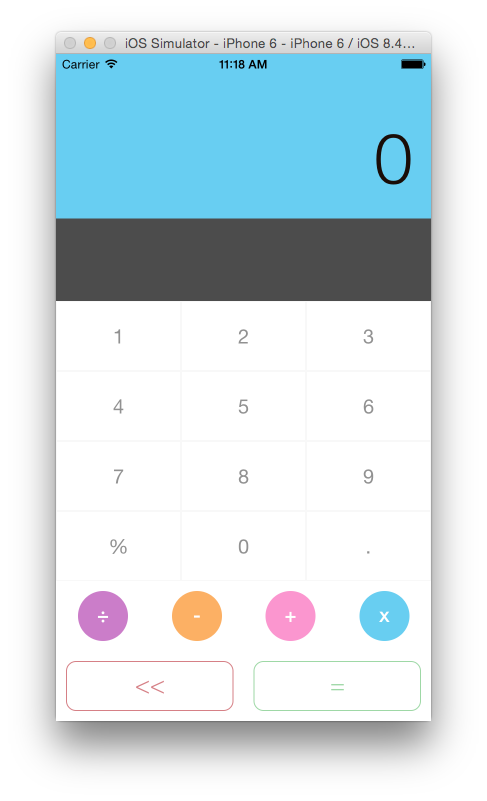
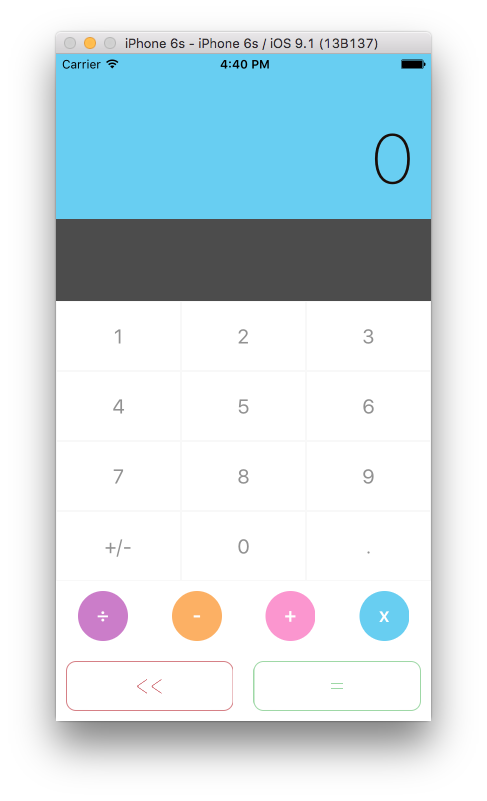
Updates screenshots in the readme

diff --git a/README.md b/README.md
@@ -1,10 +1,22 @@
 # A mobile, desktop and website App with the same code
 
-This project shows how the source code can be architectured for multiple devices. For now, the source code is able to run as:
+This project shows how the source code can be architectured to run on multiple devices. As of now, it is able to run as:
 
 - an iOS App (based on [react-native](https://facebook.github.io/react-native))
-- a Website App in any browser (based on [react](https://facebook.github.io/react))
 - a Desktop App (based on [NW](http://nwjs.io))
+- a Website App in any browser (based on [react](https://facebook.github.io/react))
+
+### Mobile App
+
+![Mobile App](images/mobile-app.png "Mobile App")
+
+### Desktop App
+
+![Desktop App](images/desktop-app.png "Desktop App")
+
+### Website App
+
+![Website App](images/website-app.png "Website App")
 
 ## Libraries/tools
 
@@ -107,8 +119,6 @@ As of now (October 14th) react-native and npm v3.X do not cooperate well togethe
 
 Congratulations! You've just successfully run the project as an iOS App.
 
-![Mobile App](images/mobile-app.png "Mobile App")
-
 ## The Website App
 
 ### Requirements for React
@@ -121,8 +131,6 @@ There isn't any addtional requirements since you already installed the deps with
 - `grunt serve-web` to preview in the browser at http://localhost:8000/index.web.html or http://localhost:8000/webpack-dev-server/index.web.html with webpack-dev-server and hot reload enabled
 
 Congratulations! You've just successfully run the project as a Website App.
-
-![Website App](images/website-app.png "Website App")
 
 ## The Desktop App
 
@@ -146,8 +154,6 @@ You can also setup an alias to call the binary.
 - `grunt serve-nw` to launch the desktop app and enable livereload
 
 Congratulations! You've just successfully run the project as a Desktop App.
-
-![Desktop App](images/desktop-app.png "Desktop App")
 
 # Run the tests
 
